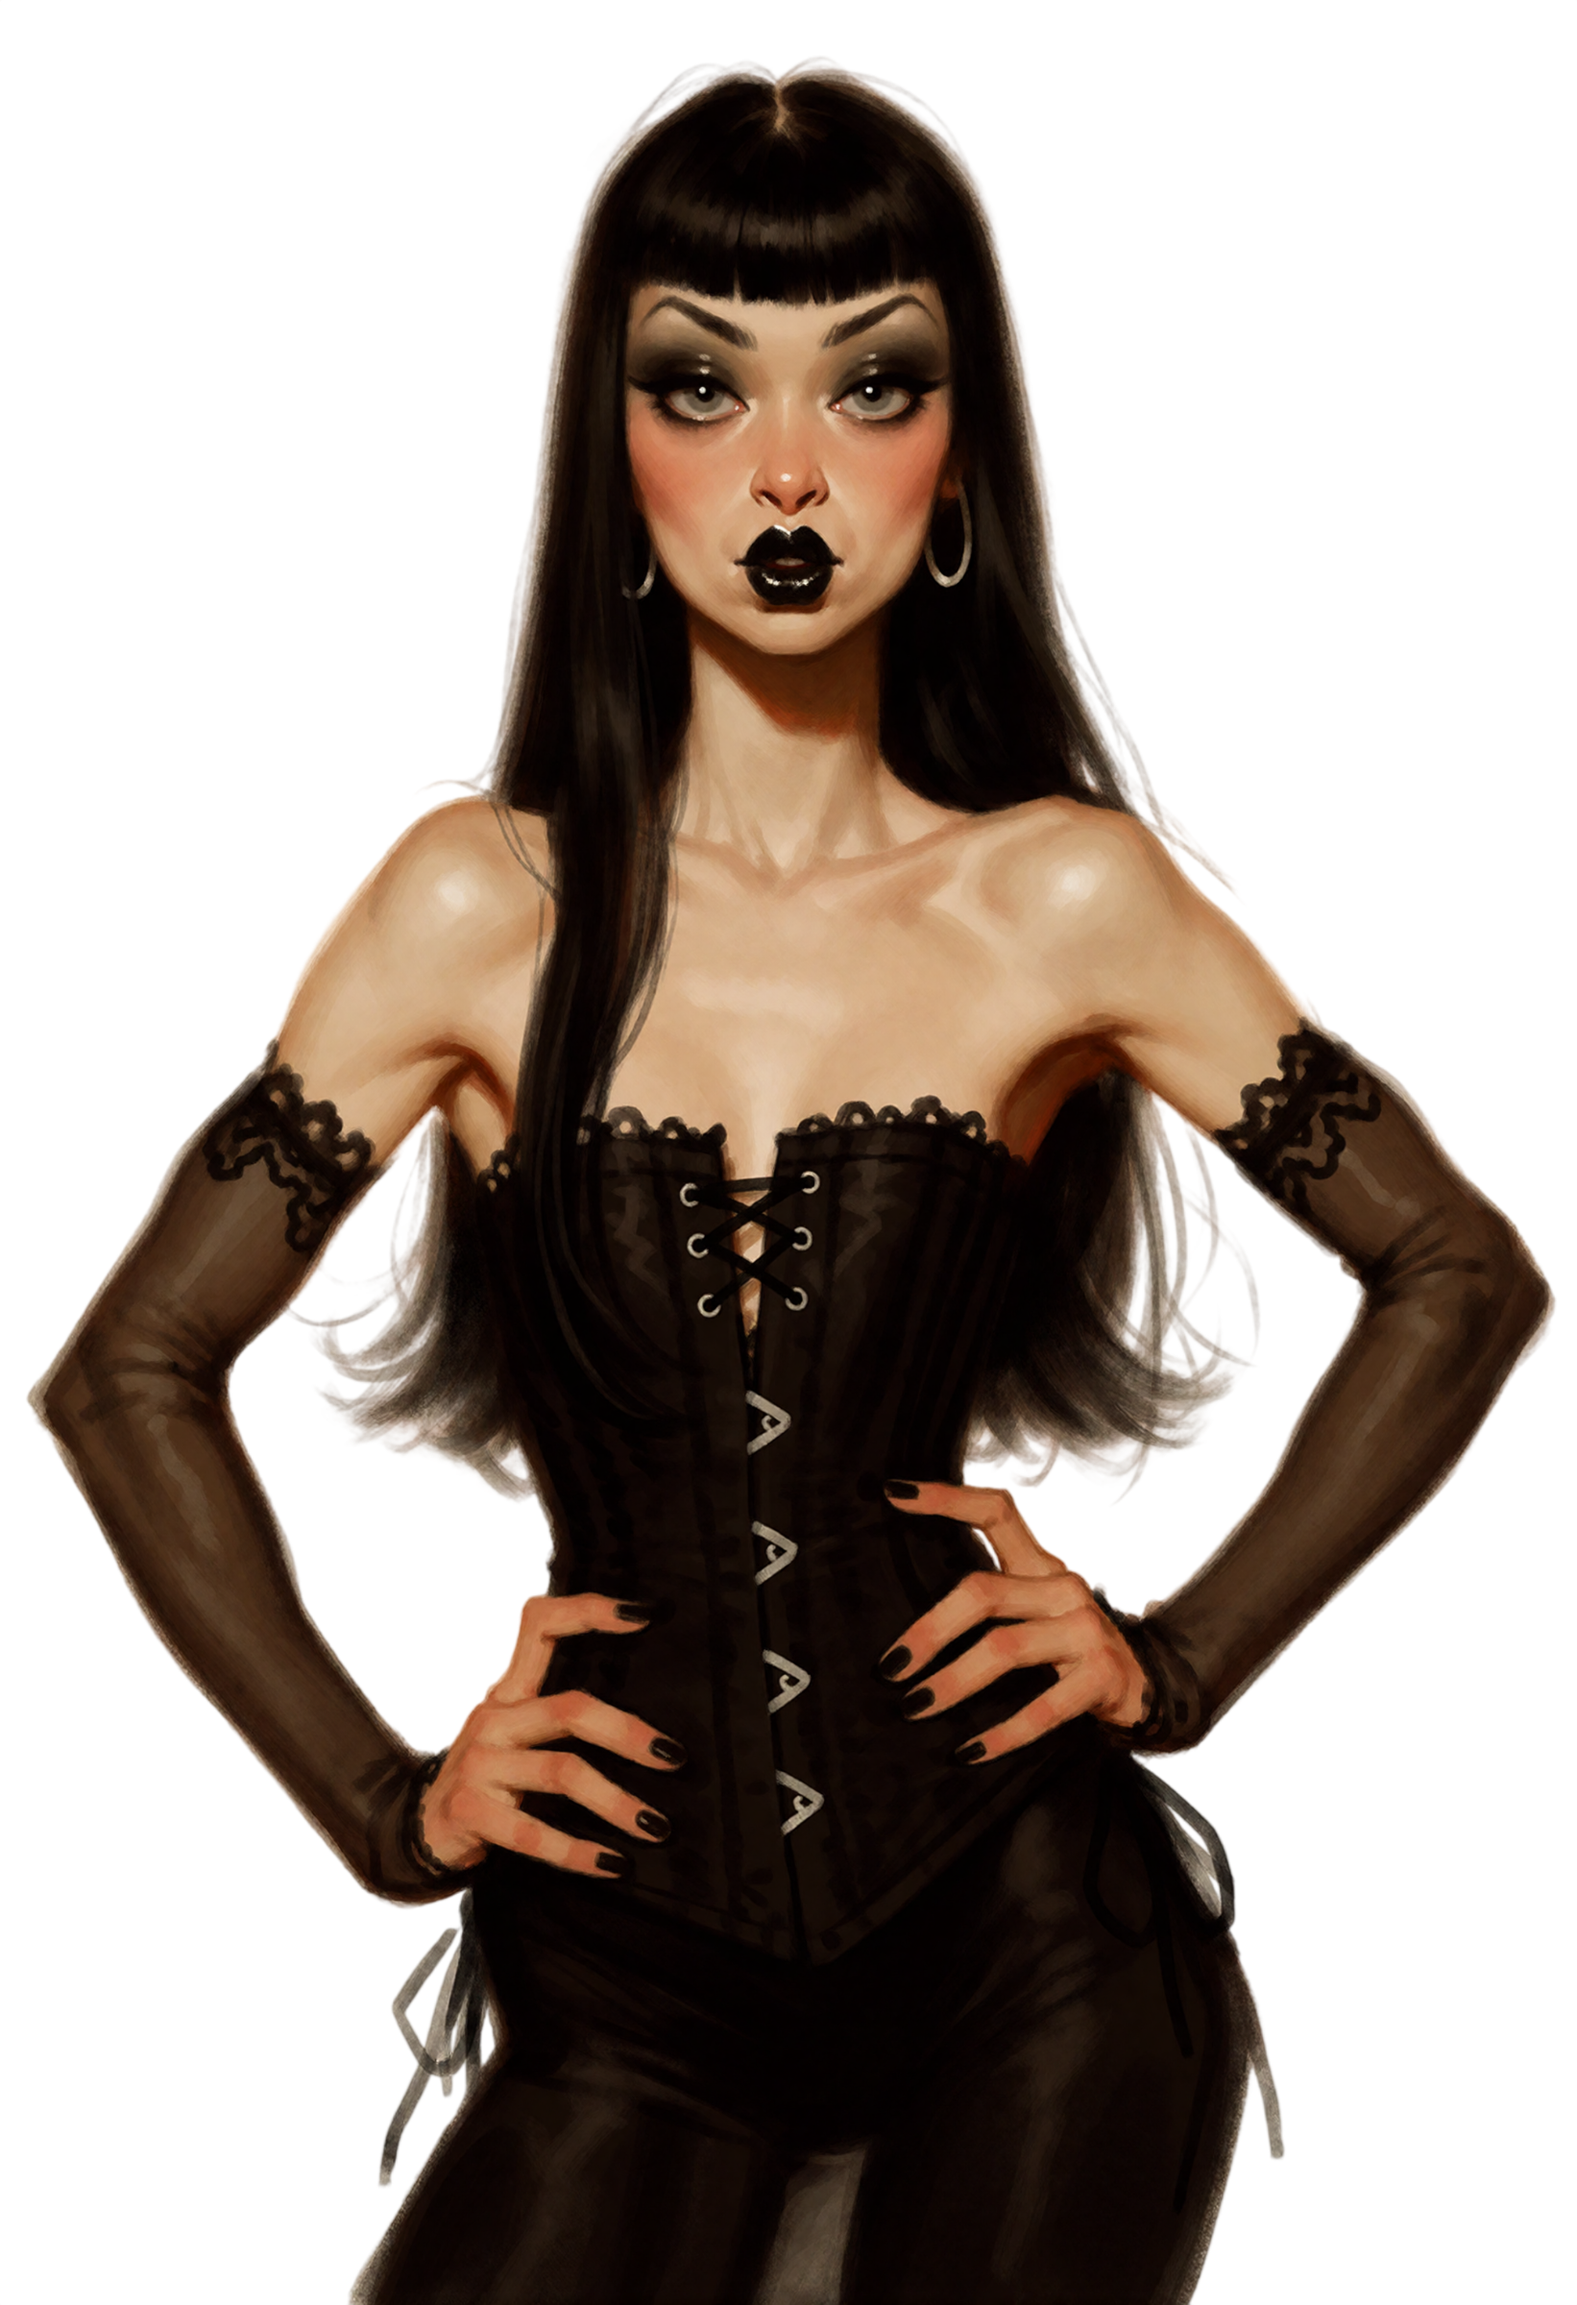
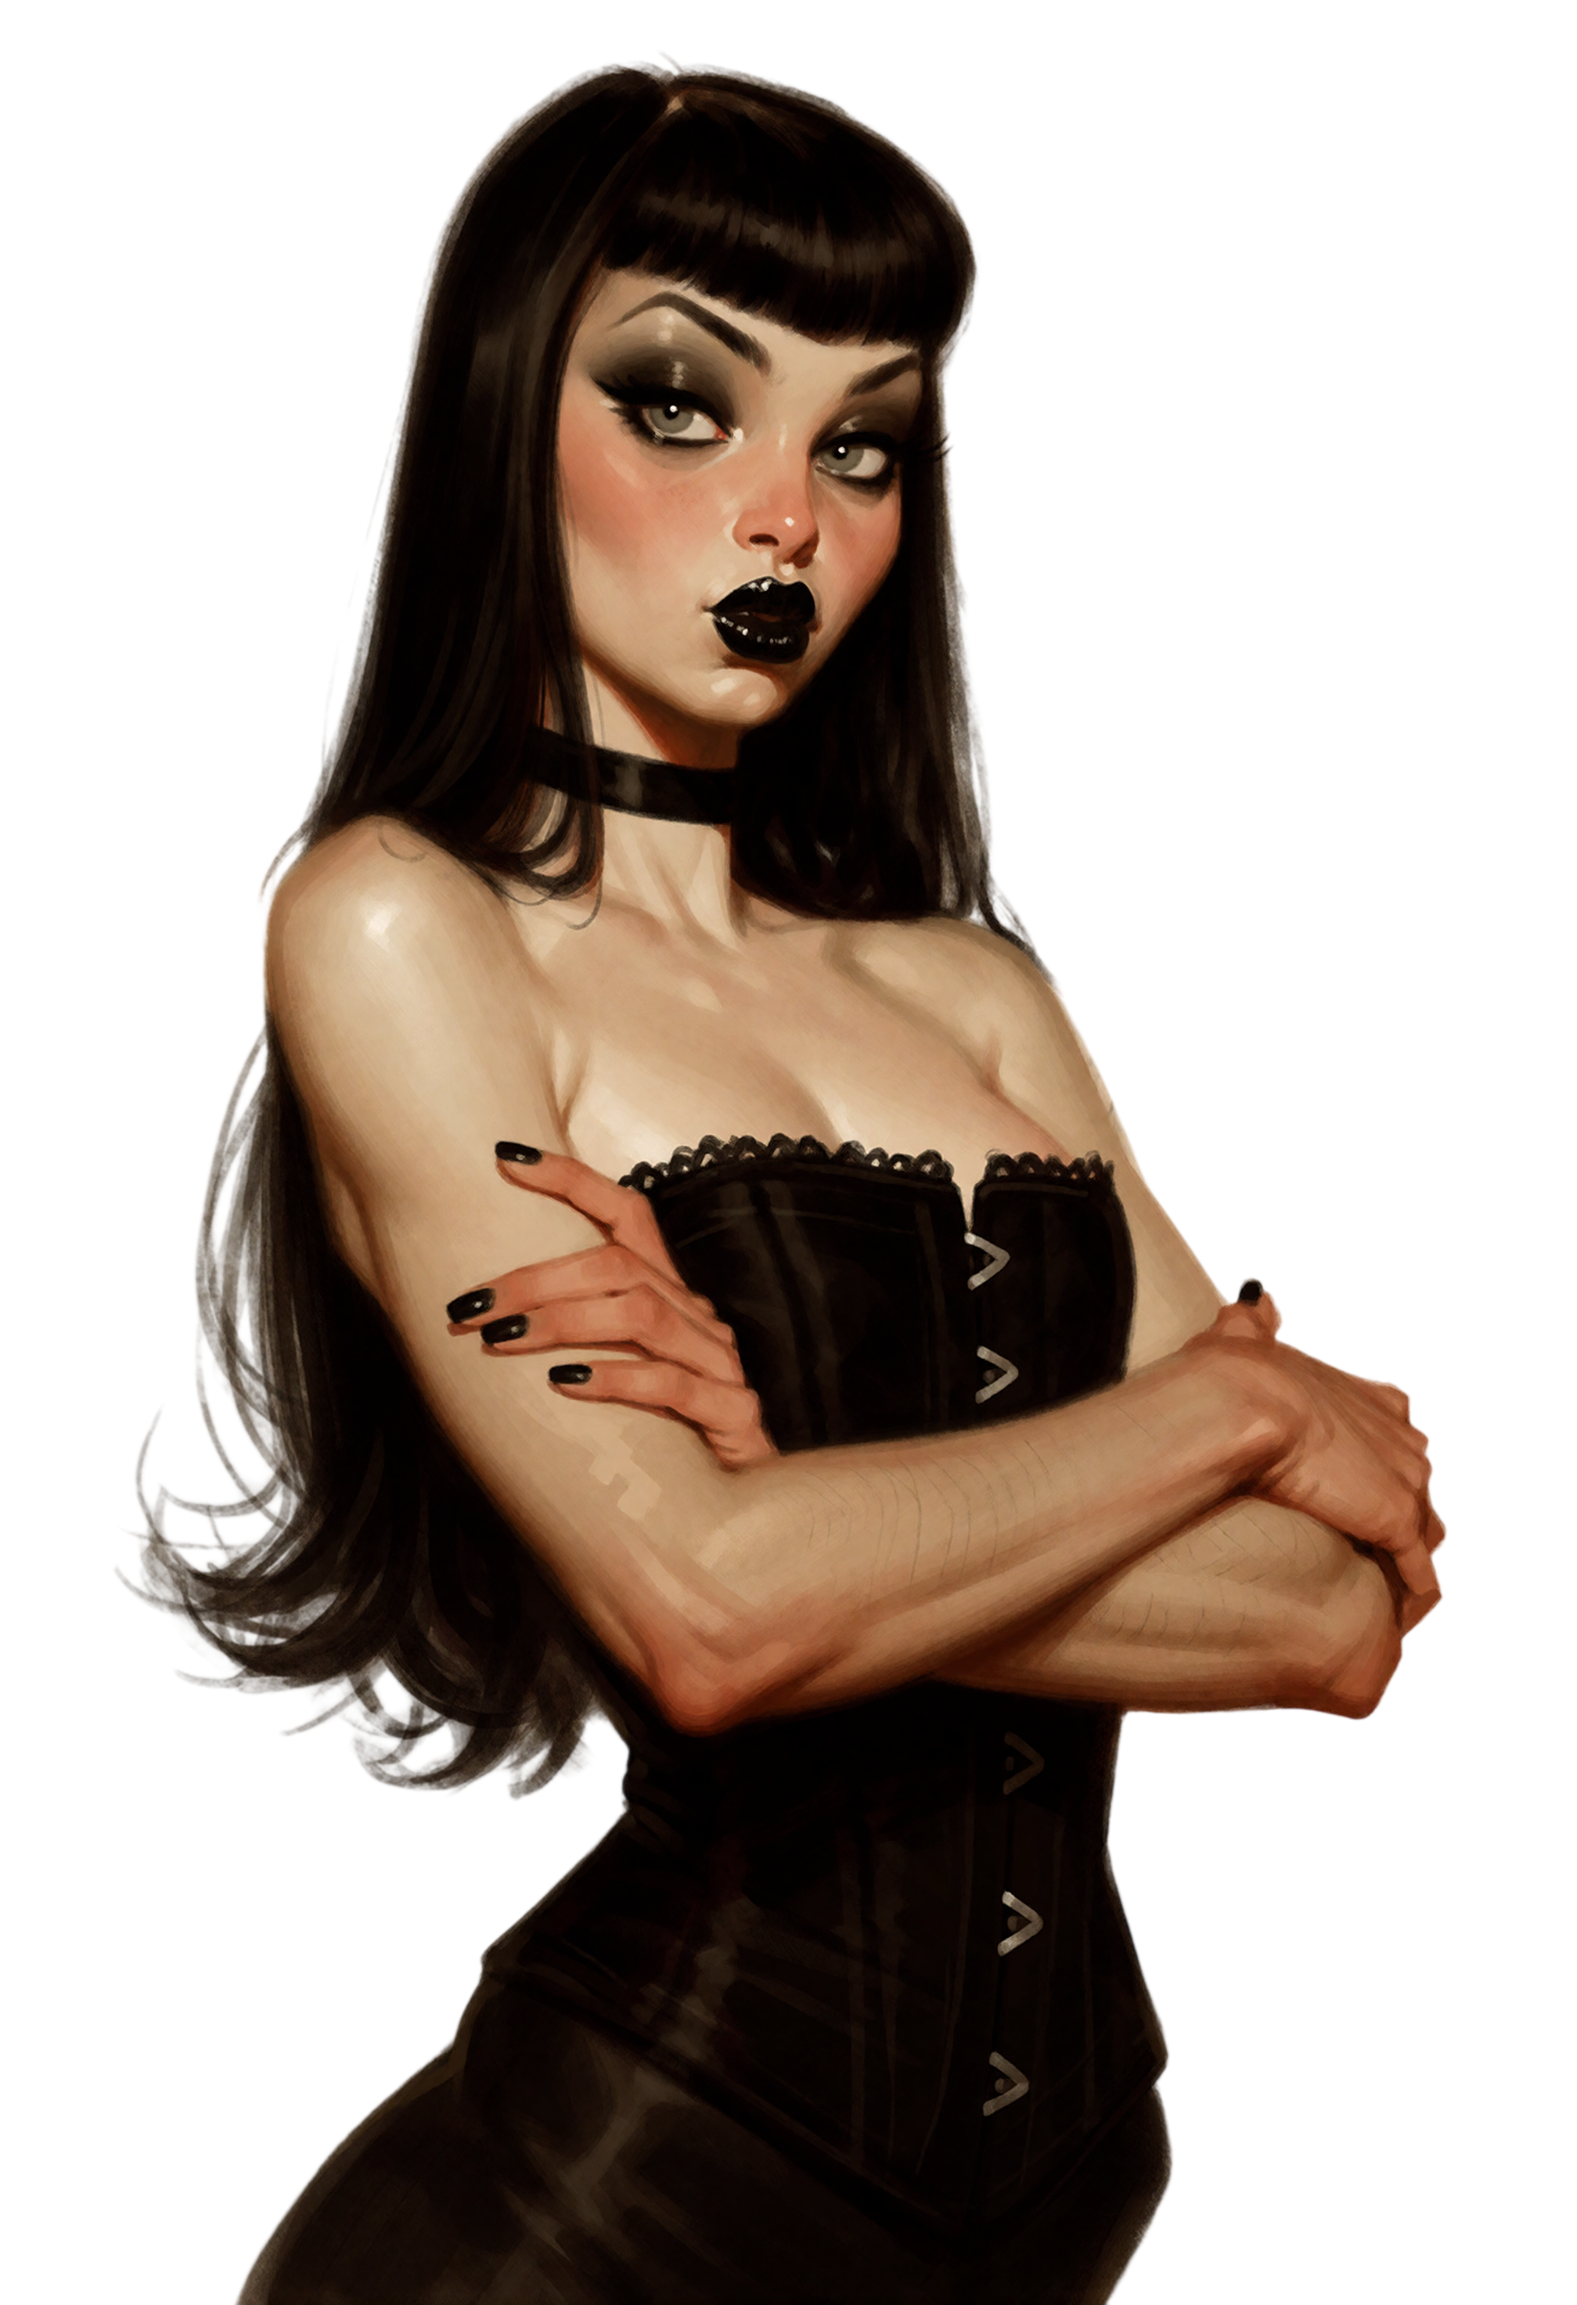
feat: add Ophelia portrait variants (guarded, performing, tired, unmasked)
Mirrors Lakshmi's per-NPC variant-portrait pattern. guarded and
performing were already tagged into opheliaApartment.ink/
turtleLakePlaza.ink but silently fell back to neutral since the art
didn't exist yet; wiring them in makes those scenes render correctly.
Also retagged two mask-crack lines to the new unmasked variant and two
weary ending-debrief lines to tired, and refreshed the neutral art.

diff --git a/src/content/npcs.ts b/src/content/npcs.ts
@@ -111,6 +111,10 @@ export const NPCS: Record<NpcId, NpcDefinition> = {
     name: 'Ophelia',
     portraits: {
       neutral: '/portraits/npcs/ophelia.png',
+      guarded: '/portraits/npcs/ophelia-guarded.png',
+      performing: '/portraits/npcs/ophelia-performing.png',
+      tired: '/portraits/npcs/ophelia-tired.png',
+      unmasked: '/portraits/npcs/ophelia-unmasked.png',
     },
   },
 }

diff --git a/docs/OPHELIA_CHARACTER_SPEC.md b/docs/OPHELIA_CHARACTER_SPEC.md
@@ -342,10 +342,9 @@ under any of the four.
 
 ## Asset needs
 
-- portrait art for Ophelia, using the attached visual reference as the
-  baseline direction
-- at minimum a `neutral` portrait, with strong later candidates for
-  `guarded`, `performing`, `tired`, and `unmasked`
+- portrait art for Ophelia — done: `neutral`, `guarded`, `performing`,
+  `tired`, and `unmasked` variants are all live (`content/npcs.ts`), tagged
+  into `opheliaApartment.ink`/`turtleLakePlaza.ink` via `# portrait:`
 - likely District 3 background support:
   - Turtle Lake at night
   - Pasteur Street interior / back stair
